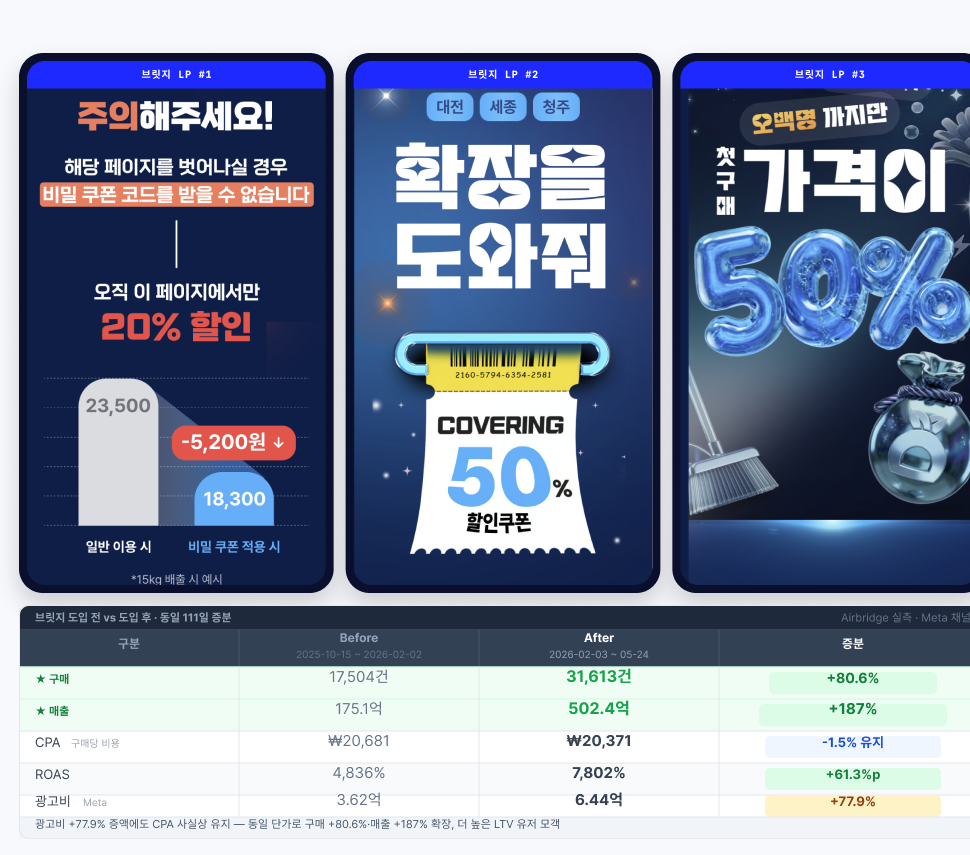
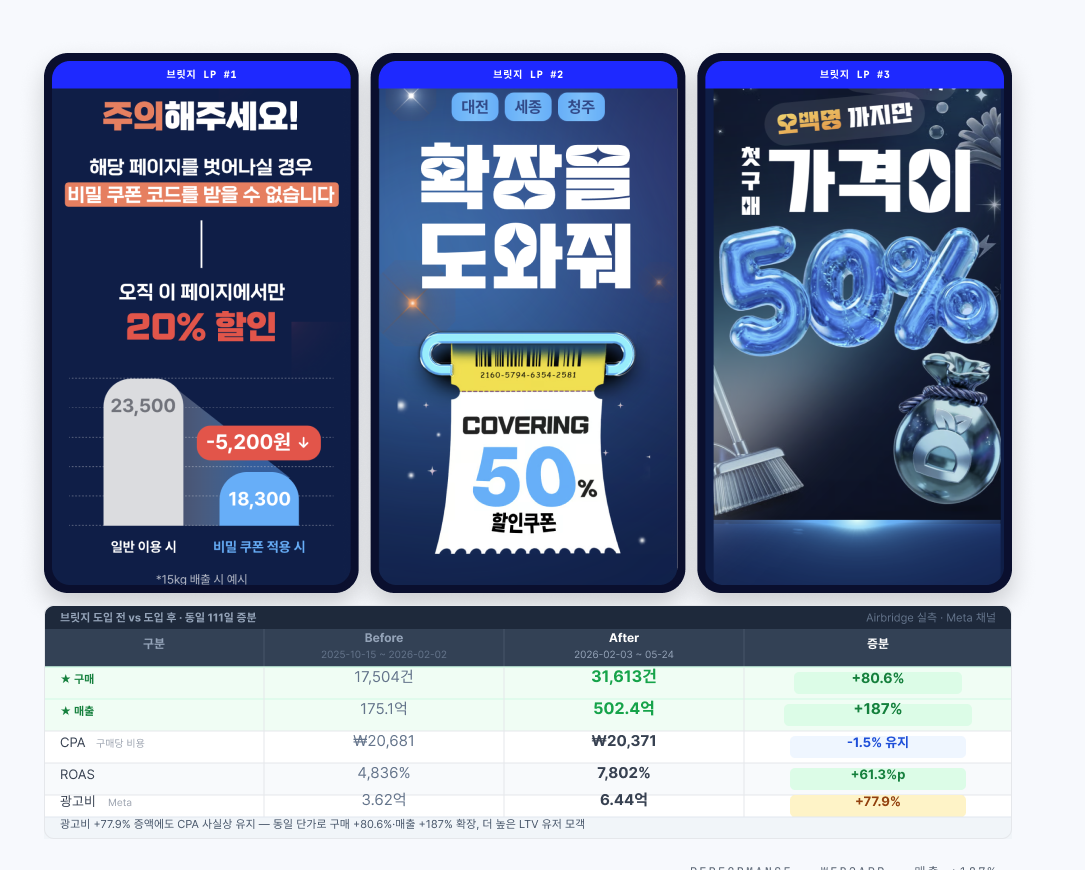
v25.4: p5·p9 우측 PNG 다듬기 — 블렌드 + 우측 잘림 해소
- p5: 컨테이너 흰배경/border-radius/box-shadow 제거 → PNG 자체 배경이 slide bg(#F7F9FD)와 자연스럽게 블렌드, 붙여넣은 듯한 부자연스러움 제거
- p9: sharp으로 우측 영역 재크롭 — left 850→825, width 970→1085로 확장
  · 우측 끝 'Airbridge 실측 · Meta 채널' 라벨 및 '증분' 컬럼 +80.6%/+187% 등 잘림 해소
- p5도 동일 폭으로 재크롭(좌우 여백 균일화)

diff --git a/이도형_포트폴리오_v25.html b/이도형_포트폴리오_v25.html
@@ -778,7 +778,7 @@ document.addEventListener('DOMContentLoaded', function(){
 
     <div class="col-r">
       <!-- v25.3: 우측 컬럼 전체를 첨부 PNG로 교체 -->
-      <div style="flex:1;min-height:0;background:#fff;border-radius:14px;overflow:hidden;box-shadow:0 2px 6px rgba(15,25,50,.04);display:flex;align-items:center;justify-content:center;">
+      <div style="flex:1;min-height:0;overflow:hidden;display:flex;align-items:center;justify-content:center;">
         <img src="./assets/v25_split/p5_replace.png" alt="p5 — 8kg 정책 카드 3종 + 결과 미니 차트 + 바 차트 + KPI + 비교 표 (첨부 디자인)" style="max-width:100%;max-height:100%;width:auto;height:auto;object-fit:contain;display:block;">
       </div>
     </div>
@@ -1158,7 +1158,7 @@ document.addEventListener('DOMContentLoaded', function(){
 
     <div class="col-r">
       <!-- v25.3: 우측 컬럼 전체를 첨부 PNG로 교체 -->
-      <div style="flex:1;min-height:0;background:#fff;border-radius:14px;overflow:hidden;box-shadow:0 2px 6px rgba(15,25,50,.04);display:flex;align-items:center;justify-content:center;">
+      <div style="flex:1;min-height:0;overflow:hidden;display:flex;align-items:center;justify-content:center;">
         <img src="./assets/v25_split/p9_replace.png" alt="p9 — 브릿지 LP 3종 + 도입 전/후 지표 (첨부 디자인)" style="max-width:100%;max-height:100%;width:auto;height:auto;object-fit:contain;display:block;">
       </div>
     </div>